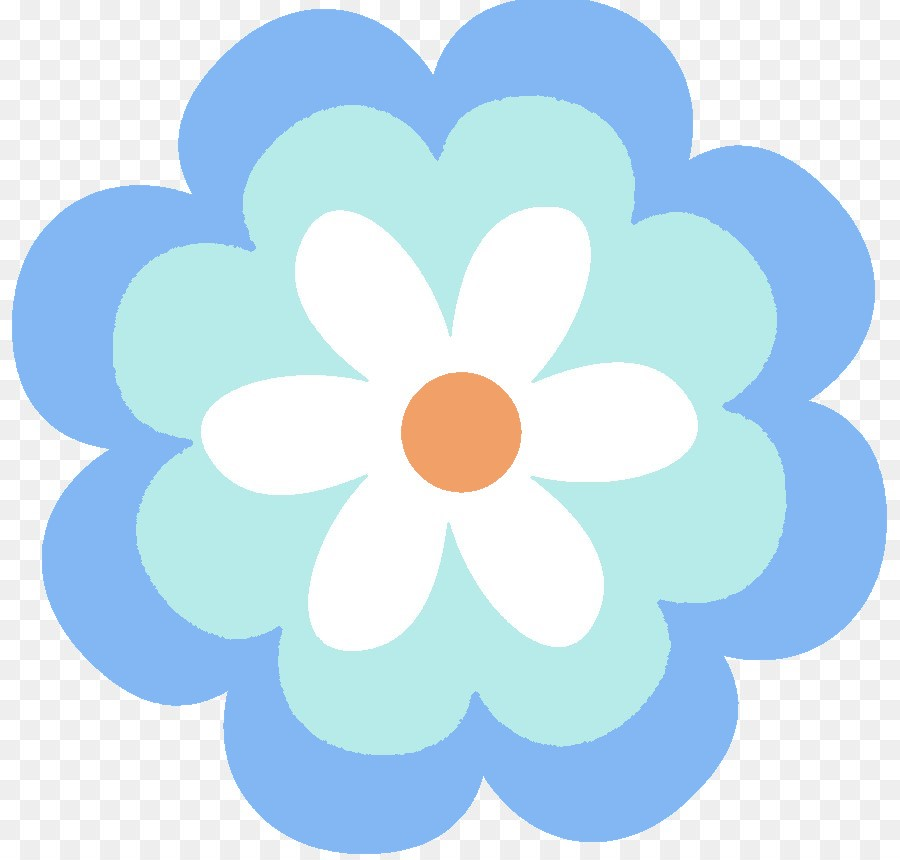
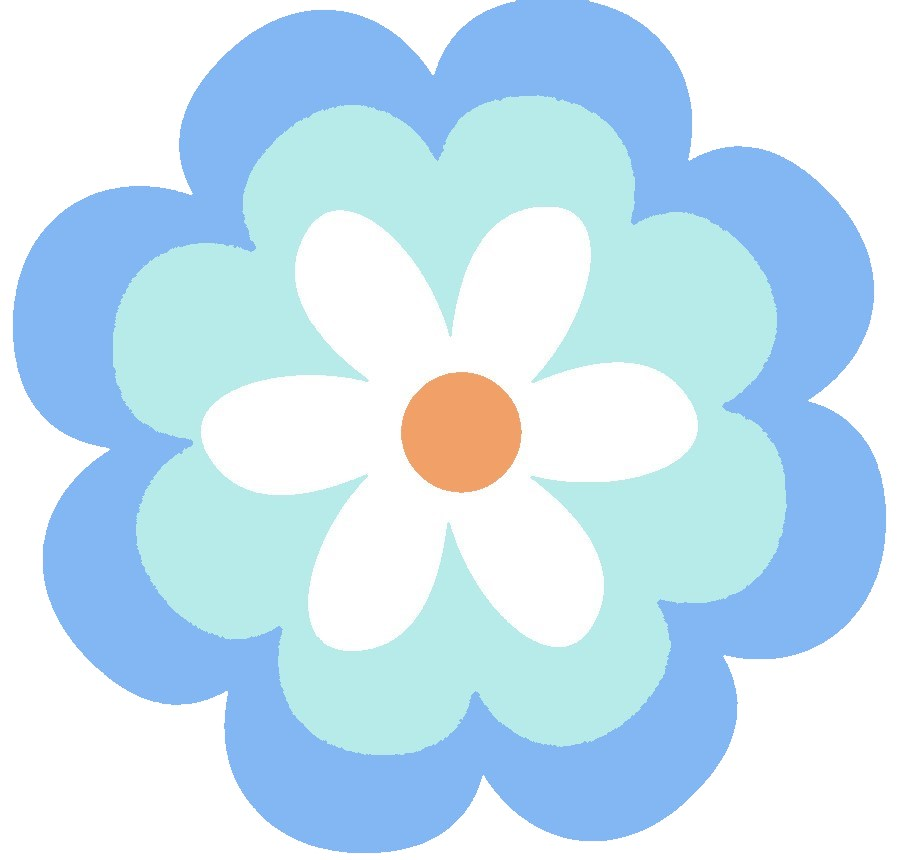
added getRandomIndex, removed notFound, removed repeats in event listeners, and resized images

diff --git a/app.js b/app.js
@@ -8,13 +8,19 @@ const blueFlower = document.getElementById('blue-flower');
 const purpleFlower = document.getElementById('purple-flower');
 
 const totalEl = document.getElementById('total');
+const foundEl = document.getElementById('found');
+const notFoundEl = document.getElementById('not-found');                      
 const hidingSpots = [pinkFlower, blueFlower, purpleFlower];
 
 // let state
 let found = 0;
-let notFound = 0;
 let total = 0;
 
+function getRandomItem(arr) {
+    const index = Math.floor(Math.random() * 3);
+
+    return arr[index];
+}
 function resetImages() {
     pinkFlower.src = './assets/pink-flower.jpg';
     blueFlower.src = './assets/blue-flower.jpg';
@@ -23,41 +29,32 @@ function resetImages() {
 
 // set event listeners 
 pinkButton.addEventListener('click', () => {
-    resetImages();
-    total++;
-    const hidingSpot = Math.floor(Math.random() * 3);
-    const answer = hidingSpots[hidingSpot];
+    const answer = getRandomItem(hidingSpots);
 
     handleGuess(answer, 'pink-flower');
 });
 
 blueButton.addEventListener('click', () => {
-    resetImages();
-    total++;
-    const hidingSpot = Math.floor(Math.random() * 3);
-    const answer = hidingSpots[hidingSpot];
+    const answer = getRandomItem(hidingSpots);
 
     handleGuess(answer, 'blue-flower');
 });
 
 purpleButton.addEventListener('click', () => {
-    resetImages();
-    total++;
-    const hidingSpot = Math.floor(Math.random() * 3);
-    const answer = hidingSpots[hidingSpot];
+    const answer = getRandomItem(hidingSpots);
 
     handleGuess(answer, 'purple-flower');
 });
 
 function handleGuess(correctSpot, userGuess) {
-
+    resetImages();
+    total++;
     correctSpot.src = './assets/silvermist-fairy.png';
 
     if (correctSpot.id === userGuess) {
         found++;
-    } else {
-        notFound++;
-    }
-    totalEl.textContent = `You've found the fairy ${found} time, you didn't find the fairy ${notFound} times out of ${total} tries. Keep trying!`;
+    } 
+    totalEl.textContent = total;
+    foundEl.textContent = found;
+    notFoundEl.textContent = total - found;
 }
-

diff --git a/index.html b/index.html
@@ -36,9 +36,9 @@
                 <button id="purple-button">Purple</button>
             </div>
         </div>
-        <div><span id="found"></span></div>
-        <div><span id="not-found"></span></div>
-        <div><span id="total"></span></div>
+        <div>You've found the fairy <span id="found">0</span> times</div>
+        <div>and have not found the fairy <span id="not-found">0</span> times</div>
+        <div>out of <span id="total">0</span> games. Keep trying!</div>
     </section>
 </main>
     <footer>&copy;July 2022 Emily Pisaygnane</footer>
